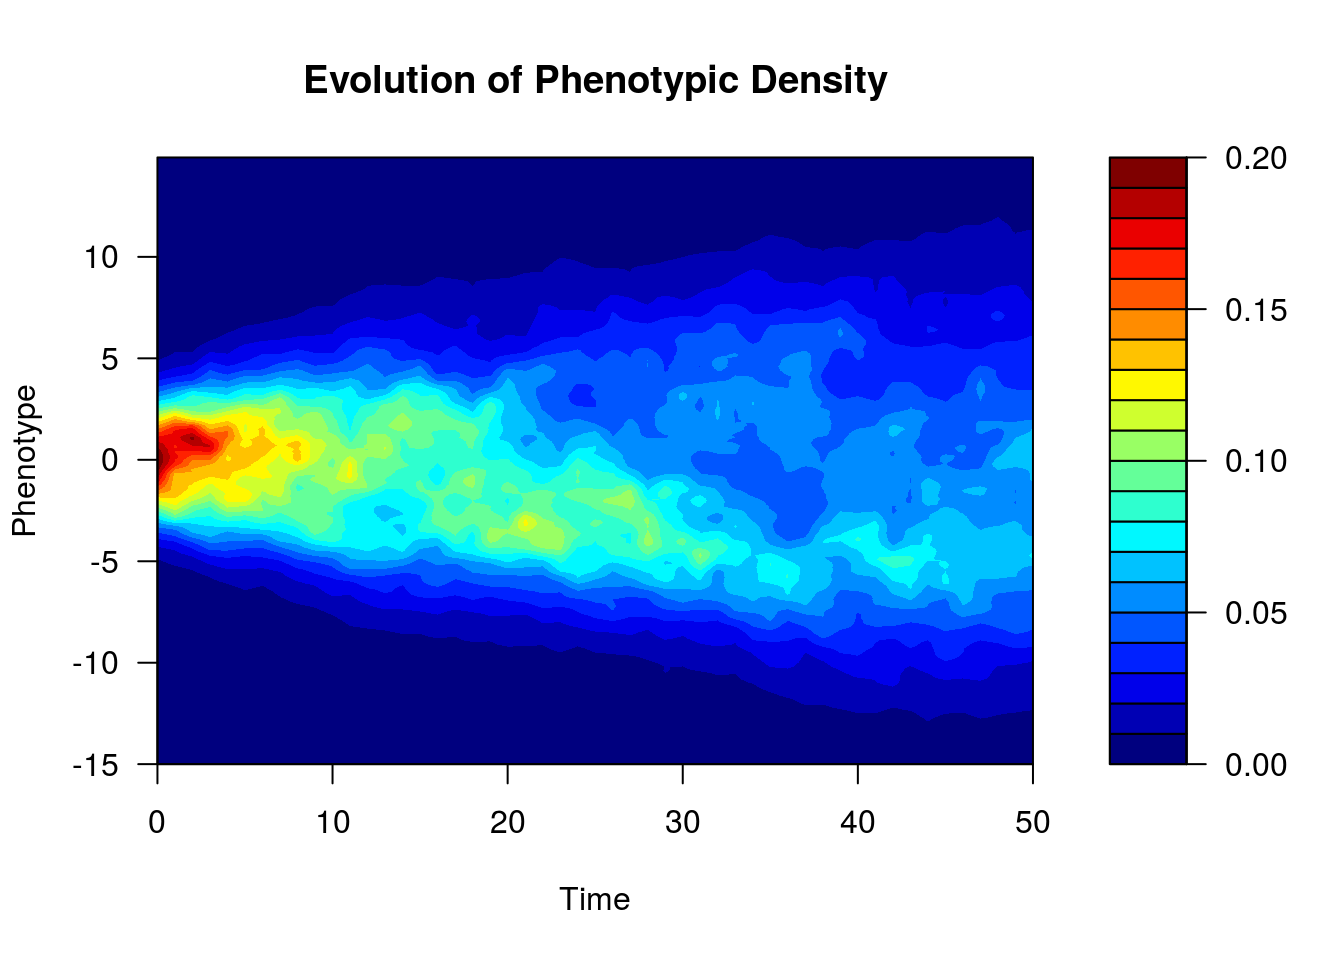
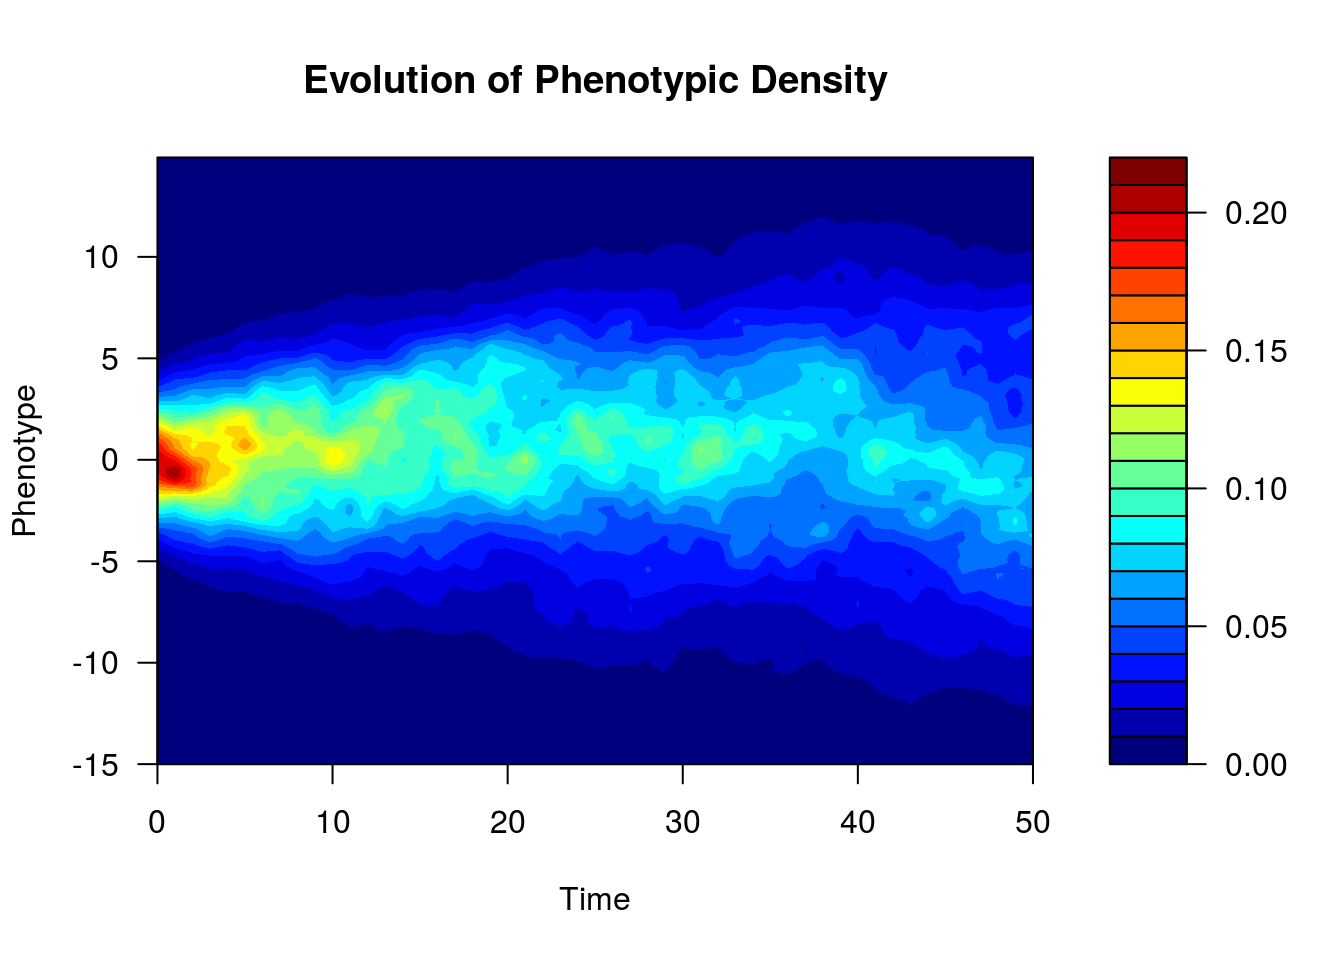
notes

diff --git a/notes.html b/notes.html
@@ -510,36 +510,57 @@ Should try to show that if each $W_t(i)$ satisfies the $\delta$ supposition, the
 </div>
 <div id="stochastic-selection" class="section level4">
 <h4>Stochastic Selection</h4>
-<p>Our selection surface across time will be the following.</p>
+<p>Our selection surface is modelled as space-time white noise. At every time step, a random discontinuous surface is generated, taking the following general appearance:</p>
 <p><img src="notes_files/figure-html/unnamed-chunk-20-1.png" width="672" /></p>
-<p>The resulting phenotypic density takes the following trajectory.</p>
+<p>Across time, this random surface can be visualized as a contour plot where hot colors correspond to high fitness and cool colors correspond to low fitness.</p>
 <p><img src="notes_files/figure-html/unnamed-chunk-21-1.png" width="672" /></p>
+<p>The resulting phenotypic density takes the following trajectory.</p>
+<p><img src="notes_files/figure-html/unnamed-chunk-22-1.png" width="672" /></p>
 </div>
 <div id="stochastic-bimodal-selection" class="section level4">
 <h4>Stochastic Bimodal Selection</h4>
 <p>Our selection surface across time will be the following.</p>
-<p><img src="notes_files/figure-html/unnamed-chunk-23-1.png" width="672" /></p>
-<p>The resulting phenotypic density takes the following trajectory.</p>
 <p><img src="notes_files/figure-html/unnamed-chunk-24-1.png" width="672" /></p>
+<p>The resulting phenotypic density takes the following trajectory.</p>
+<p><img src="notes_files/figure-html/unnamed-chunk-25-1.png" width="672" /></p>
+<!--
+
+#### Spate
+
+
+```r
+require(spate)
+```
+
+```
+## Loading required package: spate
+```
+
+```
+## Loading required package: mvtnorm
+```
+
+```
+## Loading required package: truncnorm
+```
+
+```r
+# might need > sudo apt-get install fftw3 fftw3-dev pkg-config
+StartVal <- rep(0,100^2)
+StartVal[75*100+75] <- 1000
+par <- c(rho0=0.05,sigma2=0.7^2,zeta=-log(0.99),rho1=0.06,gamma=3,alpha=pi/4,muX=-0.1,muY=-0.1,tau2=0.00001)
+spateSim <- spate.sim(par=par,n=100,T=5,StartVal=StartVal,seed=1)
+plot(spateSim,mfrow=c(1,5),mar=c(2,2,2,2),indScale=TRUE,cex.axis=1.5,cex.main=2)
+```
+
+<img src="notes_files/figure-html/unnamed-chunk-26-1.png" width="960" />
+
+-->
 </div>
-<div id="spate" class="section level4">
-<h4>Spate</h4>
-<pre class="r"><code>require(spate)</code></pre>
-<pre><code>## Loading required package: spate</code></pre>
-<pre><code>## Loading required package: mvtnorm</code></pre>
-<pre><code>## Loading required package: truncnorm</code></pre>
-<pre class="r"><code># might need &gt; sudo apt-get install fftw3 fftw3-dev pkg-config
-StartVal &lt;- rep(0,100^2)
-StartVal[75*100+75] &lt;- 1000
-par &lt;- c(rho0=0.05,sigma2=0.7^2,zeta=-log(0.99),rho1=0.06,gamma=3,alpha=pi/4,muX=-0.1,muY=-0.1,tau2=0.00001)
-spateSim &lt;- spate.sim(par=par,n=100,T=5,StartVal=StartVal,seed=1)
-plot(spateSim,mfrow=c(1,5),mar=c(2,2,2,2),indScale=TRUE,cex.axis=1.5,cex.main=2)</code></pre>
-<p><img src="notes_files/figure-html/unnamed-chunk-25-1.png" width="960" /></p>
 </div>
 </div>
-</div>
-<div id="calculating-the-response-in-mean-phenotype-to-selection" class="section level2">
-<h2>Calculating the Response in Mean Phenotype to Selection</h2>
+<div id="calculating-the-response-in-mean-phenotype-to-selection-via-classic-quant-gen" class="section level2">
+<h2>Calculating the Response in Mean Phenotype to Selection Via Classic Quant Gen</h2>
 <p>The normal distribution is the most important distribution due to various theorems and properties such as the central limit theorems and it’s maximum entropy property. It’s known for its mathematical elegance and empirical ubiquity and, like all distributions, can be identified by it’s density and characteristic functions, both of which are Gaussian. In what follows I will use the terms Gaussian and normal interchangebally.</p>
 <p>Gaussian functions play a central role in evolutionary theory. Arguably the most successful equation describing the evolution of a population, the breeder’s equation, requires a normal phenotypic distribution. Typical notation is <span class="math inline">\(z\)</span> for the phenotype of an individual, <span class="math inline">\(\bar z\)</span> for the mean phenotype of the population, <span class="math inline">\(\sigma^2\)</span> for the phenotypic variance and <span class="math inline">\(\phi\)</span> for the phenotypic density. This provides</p>
 <p><span class="math display">\[\phi(z)=\frac{1}{\sqrt{2\pi\sigma^2}}\exp\left(-\frac{(z-\bar z)^2}{2\sigma^2}\right).\]</span></p>
@@ -584,6 +605,16 @@ plot(spateSim,mfrow=c(1,5),mar=c(2,2,2,2),indScale=TRUE,cex.axis=1.5,cex.main=2)
 <p><span class="math display">\[=\frac{\overline W+qD_p\overline W}{\overline W-pD_p\overline W}=\frac{\overline W+(1-p)\left(W_1-W_2\right)}{\overline W-p\left(W_1-W_2\right)}=\frac{W_1}{W_2}\]</span></p>
 <p><span class="math display">\[\implies \Delta x=\ln\left(\frac{W_1}{W_2}\right).\]</span></p>
 <p>Hence, the dynamics stretched onto the whole real line are not only linear, but constant! I have yet to investigate whether this can be done for models involving higher ploidy.</p>
+</div>
+<div id="likelihood-ratio" class="section level2">
+<h2>Likelihood Ratio</h2>
+<p><span class="math display">\[\Lambda = 2(l_{alt}-l_{null})\]</span> <span class="math display">\[\Lambda = 2(l_{ML}-l_{model})\]</span></p>
+<p><span class="math display">\[l_{ML}=\ln\prod_{i=1}^Nf(X_i|\mu_{ML},\Sigma_{ML}), \ \mu_{ML}=\frac{1}{N}\sum_iX_i, \ \Sigma_{ML}=\frac{1}{N^2}\sum_i{\left( X_i-\mu_{ML} \right)}^\top{\left( X_i-\mu_{ML} \right)}\]</span></p>
+<p><span class="math display">\[f(X_i|\mu,\Sigma)={\left( |2\pi\Sigma| \right)}^{-1/2}\exp{\left( -\frac{1}{2}(X_i-\mu)^\top\Sigma^{-1}(X_i-\mu) \right)}\]</span></p>
+<p><span class="math display">\[\ln f(X_i|\mu,\Sigma)=-\frac{1}{2}{\left( \ln|2\pi\Sigma|+(X_i-\mu)^\top\Sigma^{-1}(X_i-\mu) \right)}\]</span></p>
+<p><span class="math display">\[\Lambda={\left( N\ln|2\pi\Sigma_{model}|+\sum_i(X_i-\mu_{model})^\top\Sigma_{model}^{-1}(X_i-\mu_{model}) \right)}-{\left( N\ln|2\pi\Sigma_{ML}|+\sum_i(X_i-\mu_{ML})^\top\Sigma_{ML}^{-1}(X_i-\mu_{ML}) \right)}\]</span></p>
+<p><span class="math display">\[=N\ln{\left( \frac{|\Sigma_{model}|}{|\Sigma_{ML}|} \right)}+\sum_i(X_i-\mu_{model})^\top\Sigma_{model}^{-1}(X_i-\mu_{model})-\sum_i(X_i-\mu_{ML})^\top\Sigma_{ML}^{-1}(X_i-\mu_{ML})\]</span></p>
+<p><span class="math display">\[\Lambda = 2(l_{model}-l_{null})\]</span></p>
 </div>
 
 
